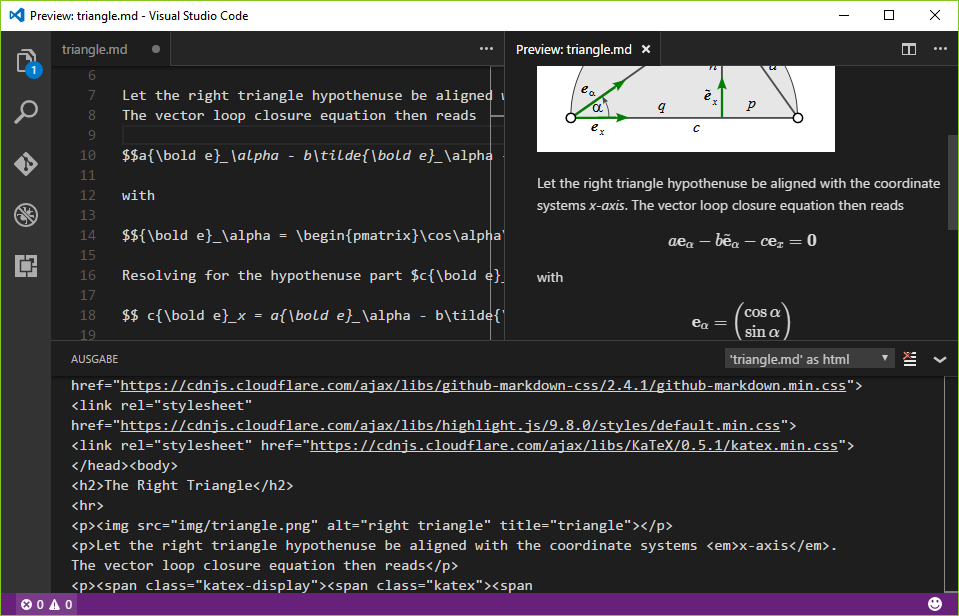
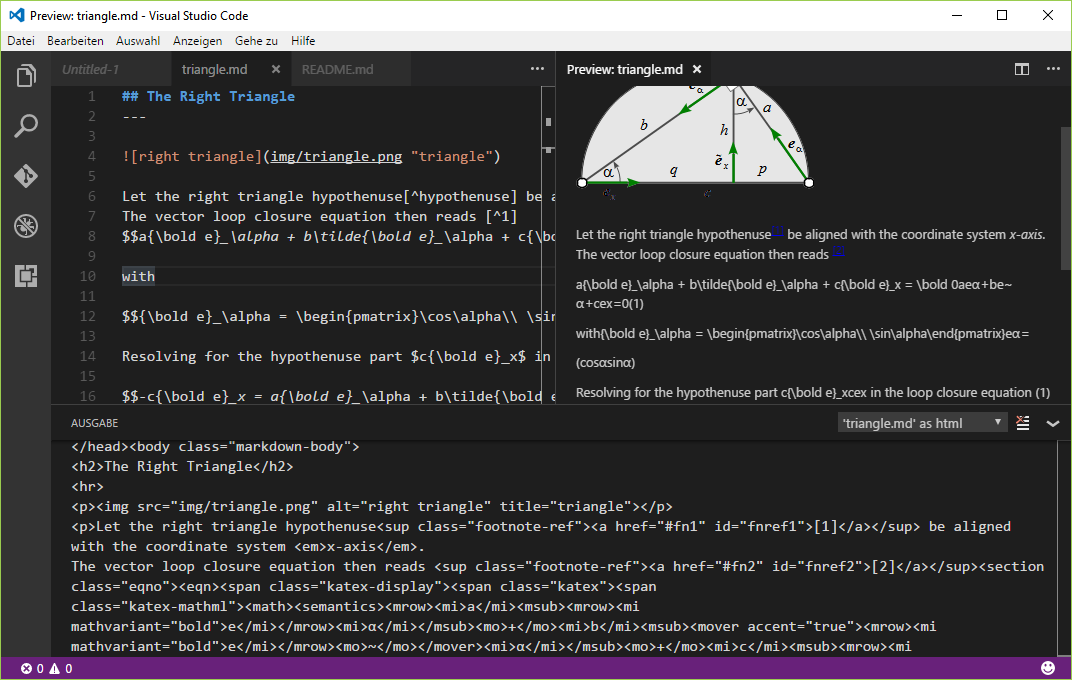
release 1.0

Changed region(s): [[0.0, 0.0, 1.0, 1.0], [0.0, 0.1542, 0.0605, 0.2159], [0.0, 0.2468, 0.0605, 0.2776]]

diff --git a/README.md b/README.md
@@ -4,11 +4,17 @@
 [![npm](https://img.shields.io/npm/v/mdmath.svg)](https://www.npmjs.com/package/mdmath)
 [![npm](https://img.shields.io/npm/dt/mdmath.svg)](https://www.npmjs.com/package/mdmath)
 
+## What is it ...
 
 **mdmath** allows to use *Visual Studio Code* as a markdown editor capable of typesetting and rendering TeX math.
-In fact it functions and renders identically to the built in markdown viewer. Additionally KaTeX works inside as the fast math renderer.
+In fact it functions and renders identically to the built in markdown viewer. Additionally KaTeX works inside as a fast math renderer.
 
 You can install the extension directly from [Visual Studio Code Marketplace](https://marketplace.visualstudio.com/items?itemName=goessner.mdmath).
+
+Release 1.0 published with support of ...
+
+* Formula numbers.
+* Footnotes
 
 ![mdmath editing](img/edit.gif)
 
@@ -24,6 +30,10 @@ document format.
 * Embedded HTML
 * Syntax highlighting with code sections
 * Export resulting HTML code for web usage
+
+## Test Table
+
+Some math expressions are collected in a [test table](http://goessner.github.io/mdmath/test/).
 
 ## Installation ...
 
@@ -61,6 +71,8 @@ npm install
 
 >*Note*: Attempt to show HTML output with *Preview Window* as *Active Window* results in a warning `Cannot show source of that document!`. Make your markdown source window *active* first.
 
+You can see HTML export of `triangle.md` live in [your browser](http://goessner.github.io/mdmath/triangle.html).
+
 
 ## Dependencies
 
@@ -86,8 +98,9 @@ See [contributing.md](contributing.md)
   * Very simple (manual) equation numbering implemented.
   * KaTeX error highlighting activated.
   * Footnotes by `markdown-it-footnote` added.
-  * Standalone tests for math rendering added.
+  * Standalone [tests](http://goessner.github.io/mdmath/test/) for math rendering added.
   * Markdown+Math CSS file added to [CDN](https://gitcdn.xyz/repo/goessner/mdmath/master/css/mdmath.css)
+  * Some minor bugs removed.
 
 * December 2, 2016
   * Release 0.9.0
